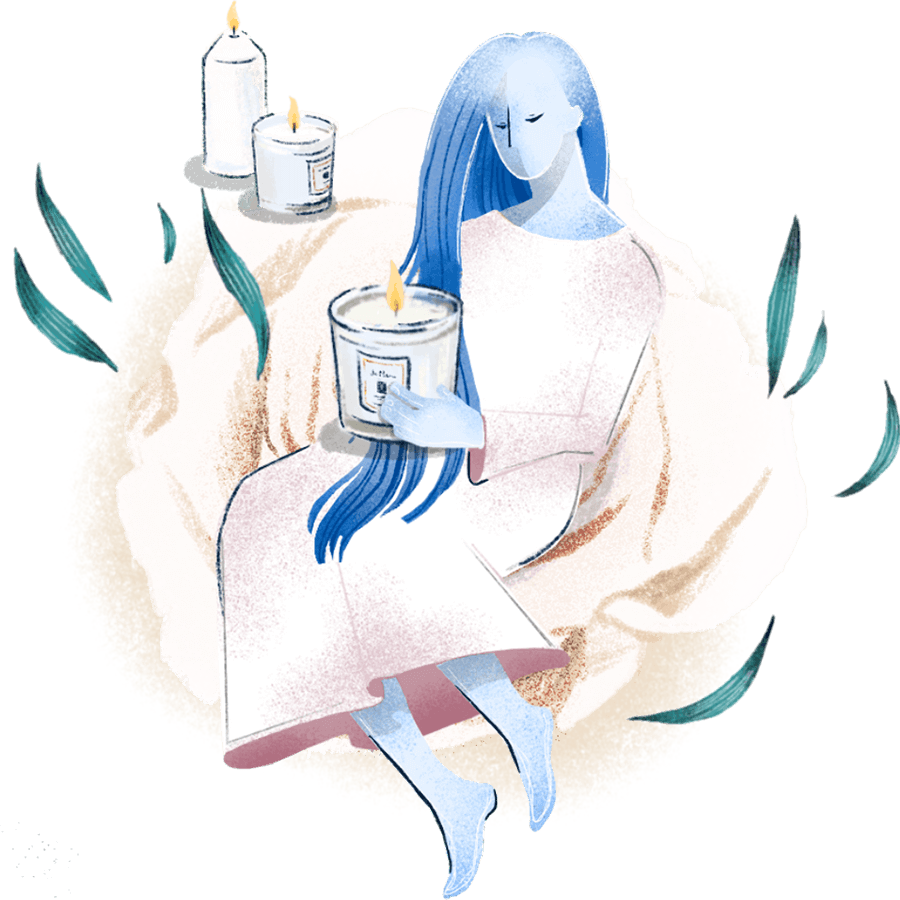
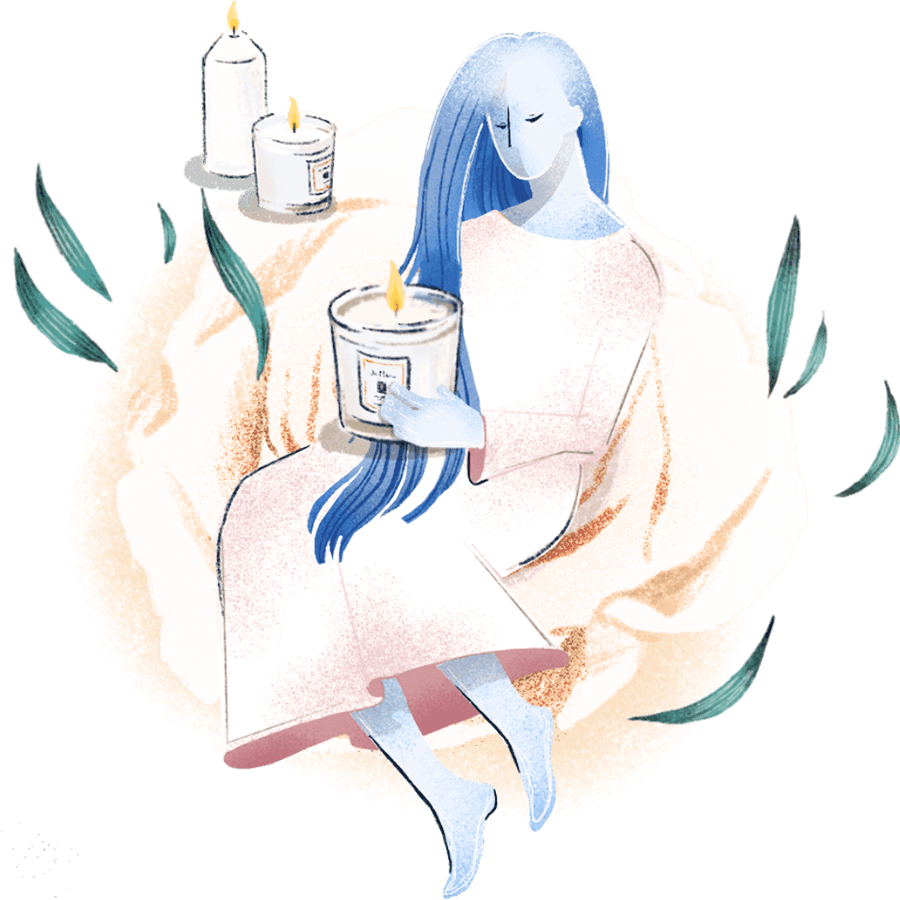
1116

diff --git a/1116/index.html b/1116/index.html
@@ -147,7 +147,7 @@
                         <p>請繼續保持！偶爾情緒低落，記得紓壓，或找朋友、找受過專業訓練的人聊聊也行。</p>
                         <div class="brand">
                             <div class="b-inside">
-                                <p>世界友善日與雅詩蘭黛集團<br />Jo Malone London品牌一起點亮心光<br /><span class="hashtag">#ShiningALight  #JoMaloneLondonTW</span></p>
+                                <p>雅詩蘭黛集團<br />Jo Malone London平台關心您<br /><span class="hashtag">#ShiningALight  #JoMaloneLondonTW</span></p>
                                 <p class="pa">關懷夥伴：<span class="logo"><img src="images/logo.png" alt=""></span></p>
                             </div>
                         </div>
@@ -197,7 +197,7 @@
                         <p>面對壓力來襲，或是遇到困難，你可以不用獨自面對與承受，試著找位朋友、或信任的長輩，又或者撥打免費心理專線，說出自己的想法吧！</p>
                         <div class="brand">
                             <div class="b-inside">
-                                <p>世界友善日與雅詩蘭黛集團<br />Jo Malone London品牌一起點亮心光<br /><span class="hashtag">#ShiningALight  #JoMaloneLondonTW</span></p>
+                                <p>雅詩蘭黛集團<br />Jo Malone London平台關心您<br /><span class="hashtag">#ShiningALight  #JoMaloneLondonTW</span></p>
                                 <p class="pa">關懷夥伴：<span class="logo"><img src="images/logo.png" alt=""></span></p>
                             </div>
                         </div>
@@ -272,7 +272,7 @@
                         <p>憂鬱來襲不知道如何面對，或許可以透過心理專業諮詢，更多了解自己的情緒，我們一起陪著你走過。</p>
                         <div class="brand">
                             <div class="b-inside">
-                                <p>世界友善日與雅詩蘭黛集團<br />Jo Malone London品牌一起點亮心光<br /><span class="hashtag">#ShiningALight  #JoMaloneLondonTW</span></p>
+                                <p>雅詩蘭黛集團<br />Jo Malone London平台關心您<br /><span class="hashtag">#ShiningALight  #JoMaloneLondonTW</span></p>
                                 <p class="pa">關懷夥伴：<span class="logo"><img src="images/logo.png" alt=""></span></p>
                             </div>
                         </div>
@@ -333,7 +333,7 @@
                         <p>國內有專業醫療團隊，經由專業人士調整，你有機會緩解情緒，並且更理解自己、與自己共處得更好。</p>
                         <div class="brand">
                             <div class="b-inside">
-                                <p>世界友善日與雅詩蘭黛集團<br />Jo Malone London品牌一起點亮心光<br /><span class="hashtag">#ShiningALight  #JoMaloneLondonTW</span></p>
+                                <p>雅詩蘭黛集團<br />Jo Malone London平台關心您<br /><span class="hashtag">#ShiningALight  #JoMaloneLondonTW</span></p>
                                 <p class="pa">關懷夥伴：<span class="logo"><img src="images/logo.png" alt=""></span></p>
                             </div>
                         </div>

diff --git a/1116/stylesheets/screen.css b/1116/stylesheets/screen.css
@@ -132,20 +132,22 @@ h3 span{
 }
 
 .op-block .op-img .grid-item .grid-item3 {
+  position: relative;
+  bottom: 24px;
   background-color: #818181;
   height: 100%;
-  -webkit-clip-path: polygon(0 0, 100% 12%, 100% 100%, 0 100%);
-  clip-path: polygon(0 0, 100% 12%, 100% 100%, 0 100%);
+  -webkit-clip-path: polygon(0 10%, 100% 10%, 100% 100%, 0% 100%);
+  clip-path: polygon(0 10%, 100% 10%, 100% 100%, 0% 100%);
 }
 .op-block .op-img .grid-item .grid-item3 .inside{
-  background-color: #3B3531;
+  background-color: #a98d7a;
   position: absolute;
   top: 2px;
   left: 2px;
   right: 2px;
   bottom: 2px;
-  -webkit-clip-path: polygon(0 0, 100% 12%, 100% 100%, 0 100%);
-  clip-path: polygon(0 0, 100% 12%, 100% 100%, 0 100%);
+  -webkit-clip-path: polygon(0 10%, 100% 10%, 100% 100%, 0% 100%);
+  clip-path: polygon(0 10%, 100% 10%, 100% 100%, 0% 100%);
 }
 
 .op-block .op-img .grid-item-s .grid-item4 {
@@ -167,7 +169,7 @@ h3 span{
 
 .op-block .op-img .grid-item .item-img {
   position: absolute;
-  bottom: -18%;
+  bottom: -15%;
   right: -5%;
   width: 95%;
   z-index: 1;
@@ -1001,12 +1003,18 @@ span.logo{
   background: #F8F1DF;
   border: 4px #333333 solid;
   text-align: center;
+  width: 75%;
+}
+@media (max-width: 768px) {
+  .result-block .txt-block .brand{
+    width: 100%;
+  }
 }
 
 .result-block .txt-block .brand .b-inside{
   background: #F8F1DF;
   border: 1px #333333 solid;
-  padding: 20px 0;
+  padding: 15px 0 5px;
   margin: 6px;
 }
 

diff --git a/1116/js/game.js b/1116/js/game.js
@@ -94,7 +94,7 @@ var quiz = [
 		"question": "6. 最容易導致你情緒低落的因素是什麼呢？<br>請告訴我們<span>（單選題）</span>",
 		"img": "<div class='illustration illustration-6'><img src='images/q6.png' alt=''></div>",
 		"choices": ["工作或學業壓力", "經濟壓力", "健康因素", "情感問題", "家庭關係", "人際關係"],
-		"comment": "<span>您知道全球有超過4.5億人們曾經歷過心理健康的問題嗎？</span><span>您關心過自己與所愛的人的心理健康嗎？讓我們一起點亮心光</span><span class='logo'><img src='images/logo.png' alt=''></span>",
+		"comment": "<span>您知道全球有超過4.5億人們曾經歷過心理健康的問題嗎？</span><span>您關心過自己與所愛的人的心理健康嗎？讓我們一起點亮心光</span>",
 		"gtm": ""
 	}
 ]
